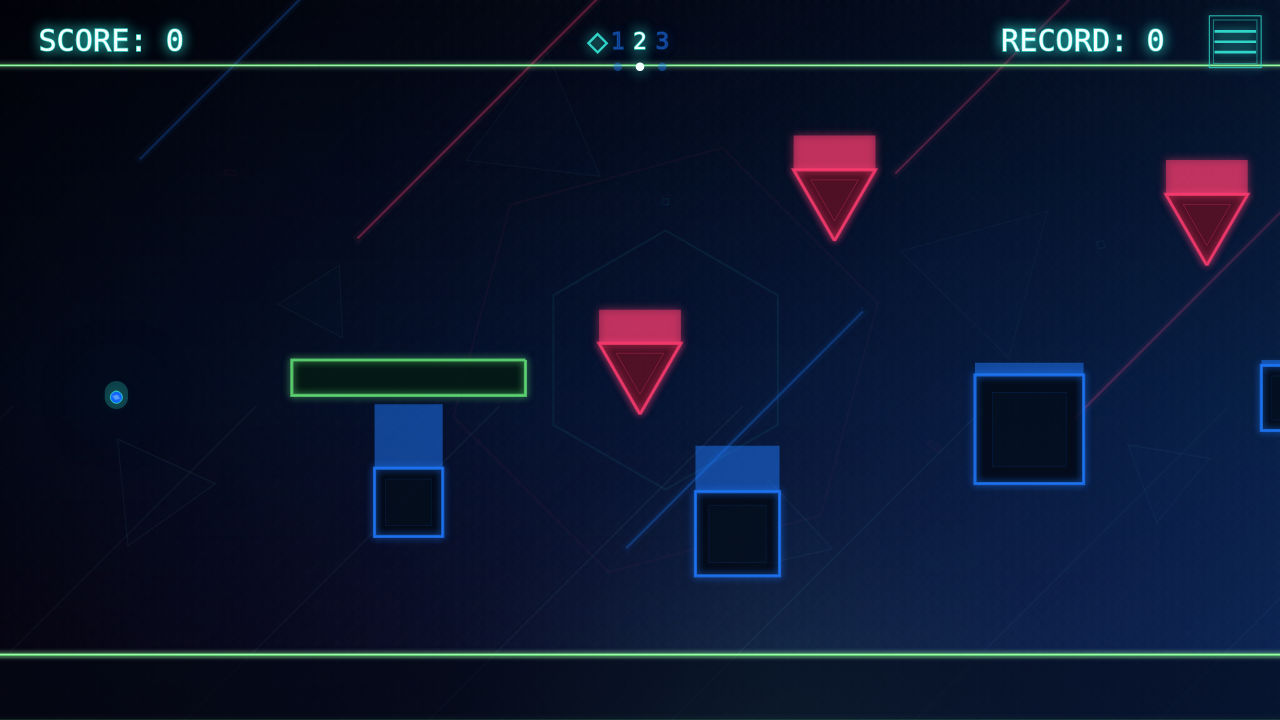
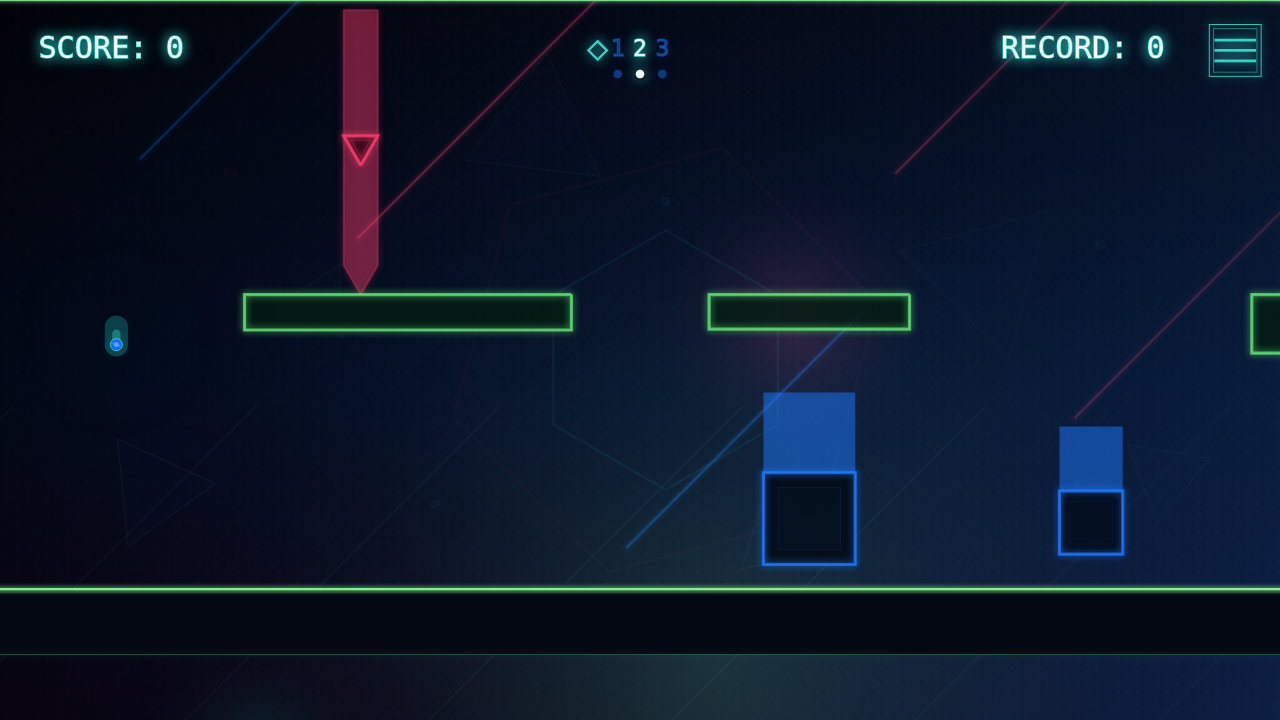
TASK-045: Restore filled triangle hazard trail

diff --git a/sprites/triangle.js b/sprites/triangle.js
@@ -206,6 +206,15 @@ class MultipointTrackLine extends TrackLine
             ? STYLE.visualStability.effectCompositeOperation
             : 'lighter'
 
+        ctx.fillStyle = this.stroke
+        ctx.shadowBlur = config.glowBlur
+        ctx.globalAlpha = config.envelopeGlowAlpha
+        ctx.fill()
+
+        ctx.shadowBlur = 0
+        ctx.globalAlpha = config.envelopeAlpha
+        ctx.fill()
+
         ctx.strokeStyle = this.stroke
         ctx.lineJoin = 'round'
         ctx.lineWidth = config.envelopeGlowWidth
@@ -215,7 +224,7 @@ class MultipointTrackLine extends TrackLine
 
         ctx.shadowBlur = 0
         ctx.lineWidth = config.envelopeLineWidth
-        ctx.globalAlpha = config.envelopeAlpha
+        ctx.globalAlpha = config.outlineAlpha
         ctx.stroke()
         ctx.restore()
     }

diff --git a/progress.md b/progress.md
@@ -108,3 +108,5 @@ TASK-051: Routed bad-version ceiling boundary collisions through the existing tr
 TASK-046 verification: Passed independent seeded bad-version browser FPS comparison with the in-game visual-effects flag; enabled averaged 17.875 FPS, disabled averaged 19 FPS, delta 1.125 FPS, refreshed screenshots/TASK-046.png, no console errors, and valid JSON.
 TASK-052: Restored visible classic ceiling rendering by limiting HUD clear-zone side-floor suppression to bad version only; browser probe confirmed classic visual boundary y=72 matches collision boundary y=72, bad ceiling still visible, no console errors, and saved screenshots/TASK-052.png. Gotcha: classic still uses the existing global neon-styled side-floor visuals from earlier tasks.
 TASK-053: Recolored classic floor/ceiling ground surfaces to neutral gray while preserving bad-version floor green outlines through separate bad floor constants; browser probe confirmed gray classic floor pixels, bad floor styling constants unchanged, no console errors, valid JSON, and saved screenshots/TASK-053.png. Gotcha: classic green safe platforms/trampolines remain green by design.
+TASK-045 verification: Failed independent code/browser/screenshot verification; current bad-version triangle trail is stroke-only/outline-only instead of the filled master-style trail requested by the latest acceptance criterion.
+TASK-045: Restored the bad-version triangle trail to a filled master-style multipoint envelope behind the hazard silhouette; browser probe confirmed filled red trail pixels, restart reset behavior, no console errors, valid JSON, and refreshed screenshots/TASK-045.png. Gotcha: the fill is intentionally translucent so the hazard silhouette remains readable.
